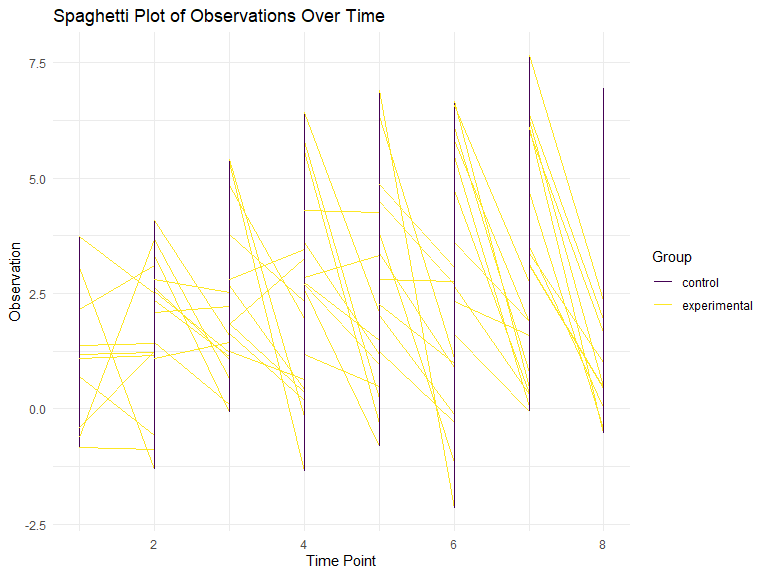
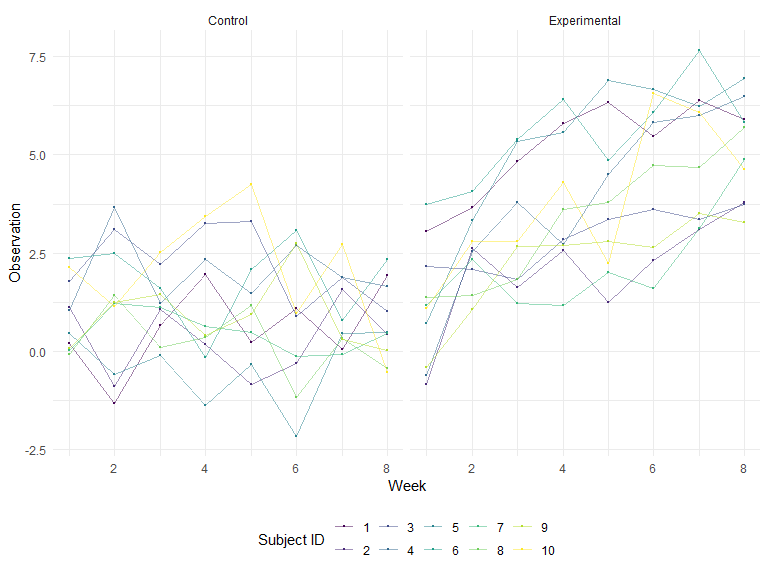
revise Q2 and new spaghetti plot

diff --git a/p8105_hw5_cz2750.md b/p8105_hw5_cz2750.md
@@ -102,49 +102,40 @@ data <- map_df(files, ~{
 
 ``` r
 tidy_data <- data %>%
-  select(-file_path) %>% 
+  clean_names() %>%
+  mutate(group = ifelse(grepl("con", arm), "Control", "Experimental")) %>%
+  mutate(subject_ID = as.integer(str_extract(subject_id, "[0-9][0-9]"))) %>%
+  select(-arm, subject_id) %>%
   pivot_longer(
-    cols = starts_with("week_"),  
-    names_to = "time_point",
-    values_to = "observation",
-    names_prefix = "week_"  
+    cols = starts_with("week"),
+    names_to = "week",
+    values_to = "observation"
   ) %>%
-  
-  mutate(
-    time_point = as.integer(str_replace(time_point, "week_", ""))
-  )
+  mutate(week = as.numeric(gsub("week_", "", week)))
 ```
 
 ## Create the Spaghetti Plot
 
 ``` r
-spaghetti_plot <- ggplot(tidy_data, aes(x = time_point, y = observation, group = subject_id, color = arm)) +
-  geom_line() +
-  labs(title = "Spaghetti Plot of Observations Over Time",
-       x = "Time Point",
-       y = "Observation",
-       color = "Group") +
-  theme_minimal()
-
-print(spaghetti_plot)
+tidy_data %>% 
+  ggplot(aes(x = week, y =observation, color = as.factor(subject_ID))) +
+  geom_point(size=0.2) +
+  geom_line(aes(group = subject_ID), alpha=0.5) +
+  facet_grid(~group) +
+  labs(x = "Week", y = "Observation", col = "Subject ID")
 ```
 
 <img src="p8105_hw5_cz2750_files/figure-gfm/unnamed-chunk-8-1.png" width="90%" />
 
 ## Comment
 
-1)  Variability: There is considerable variability within both groups.
-    The lines representing individual subjects’ observations over time
-    show a range of trajectories.
+1)  Observations in the control group fluctuated greatly over the
+    eight-week period and did not show a clear trend, suggesting a high
+    degree of variability and no consistent response.
 
-2)  Outliers or Extreme Changes: There are instances of sharp increases
-    or decreases in observations within both groups. For example, some
-    subjects in the experimental group show a sharp increase in
-    observations at later time points.
-
-3)  Overlap: Early time points show a lot of overlap between the control
-    and experimental groups, suggesting that the starting conditions for
-    both groups are similar.
+2)  The opposite is true for the experimental group, where the results
+    show a clear upward trend, implying a systematic increase in
+    observations over time.
 
 # Q3
 
@@ -272,7 +263,7 @@ are biased upward. This bias is more pronounced at lower true values of
 μ, where the difference from the null is smaller and hence more
 susceptible to sampling variability.
 
-## answer the question, “Is the sample average of μ^ across tests for which the null is rejected approximately equal to the true value of μ?”
+## The answer OF the question, “Is the sample average of μ^ across tests for which the null is rejected approximately equal to the true value of μ?”
 
 The sample average of μ^ across tests where the null is rejected is not
 perfectly equal to the true value of μ due to the bias introduced by the
